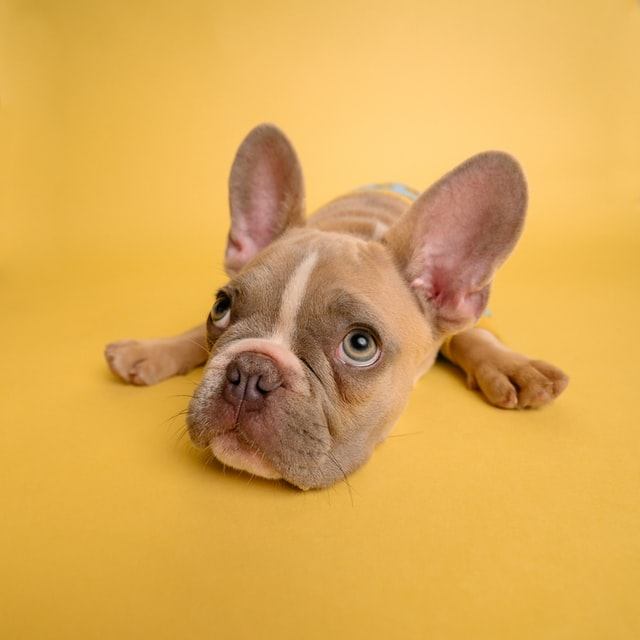
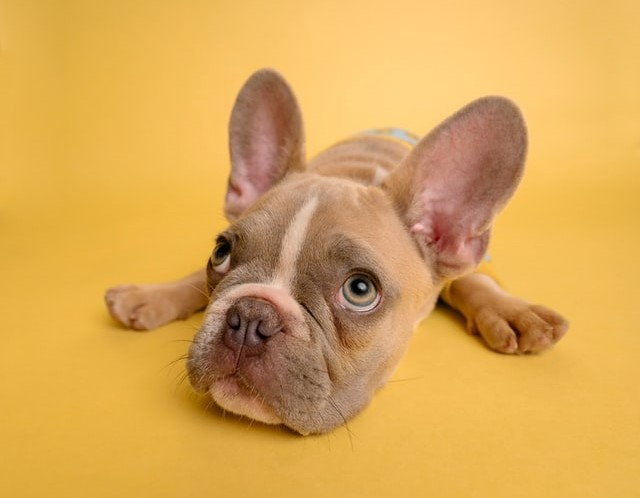
added footer

Changed region(s): [[0.1562, 0.3916, 0.9062, 0.9036], [0.4375, 0.1807, 0.8438, 0.3916], [0.3438, 0.1205, 0.5, 0.3012]]

diff --git a/src/components/Footer/styles.module.scss b/src/components/Footer/styles.module.scss
@@ -1,0 +1,48 @@
+.footer {
+  padding: 1rem 0;
+  display: flex;
+  justify-content: center;
+  align-items: flex-start;
+  flex-direction: column;
+  gap: 2rem;
+
+  img {
+    width: 90vw;
+    border-radius: 35px;
+  }
+}
+
+.info {
+  display: flex;
+  flex-direction: column;
+  gap: 2rem;
+
+  font-family: var(--ff-serif);
+
+  h1 {
+    font-size: var(--fs-600);
+    letter-spacing: 3px;
+  }
+
+  p {
+    margin-top: 1em;
+    text-align: left;
+  }
+}
+
+@media (min-width: 58rem) {
+  .footer {
+    padding: 2rem 0;
+    flex-direction: row;
+    align-items: center;
+
+    img {
+      height: 35vh;
+      width: auto;
+    }
+  }
+
+  .info {
+    flex-direction: row;
+  }
+}

diff --git a/src/components/Footer/index.js b/src/components/Footer/index.js
@@ -1,7 +1,22 @@
 import React from "react";
+import FooterInfo from "./FooterInfo";
+import styles from "./styles.module.scss";
+import footer_img from "../../assets/footer_img.jpg";
+import { footer_info } from "../../data";
 
 const Footer = () => {
-  return <div className="container">Footer</div>;
+  return (
+    <div className="container">
+      <div className={styles.footer}>
+        <div className={styles.info}>
+          {footer_info.map((item) => (
+            <FooterInfo key={item.id} title={item.title} info={item.info} />
+          ))}
+        </div>
+        <img src={footer_img} />
+      </div>
+    </div>
+  );
 };
 
 export default Footer;

diff --git a/src/data.js b/src/data.js
@@ -78,4 +78,9 @@ const support_cards = [
   },
 ];
 
-export { dogs, support_cards };
+const footer_info = [
+  { id: 1, title: "Contact", info: ["email@shelter.com", "+13 674 567 75 54"] },
+  { id: 2, title: "Social", info: "links" },
+  { id: 3, title: "Location", info: "London, South Park, 18st" },
+];
+export { dogs, support_cards, footer_info };

diff --git a/src/components/Footer/FooterInfo.js b/src/components/Footer/FooterInfo.js
@@ -1,0 +1,16 @@
+import React from "react";
+
+const FooterInfo = ({ title, info }) => {
+  return (
+    <div>
+      <h1>{title}</h1>
+      {Array.isArray(info) ? (
+        info.map((item, id) => <p key={id}>{item}</p>)
+      ) : (
+        <p>{info}</p>
+      )}
+    </div>
+  );
+};
+
+export default FooterInfo;

diff --git a/src/components/SupportSection/styles.module.scss b/src/components/SupportSection/styles.module.scss
@@ -4,6 +4,7 @@
   flex-direction: column;
   justify-content: center;
   min-height: 100vh;
+  padding-bottom: 1rem;
 
   .cards {
     margin-top: 3rem;
@@ -58,8 +59,6 @@
 
 @media (min-width: 58rem) {
   .support_section {
-    height: 100vh;
-
     .cards {
       padding-inline: 15vw;
       flex-direction: row;
